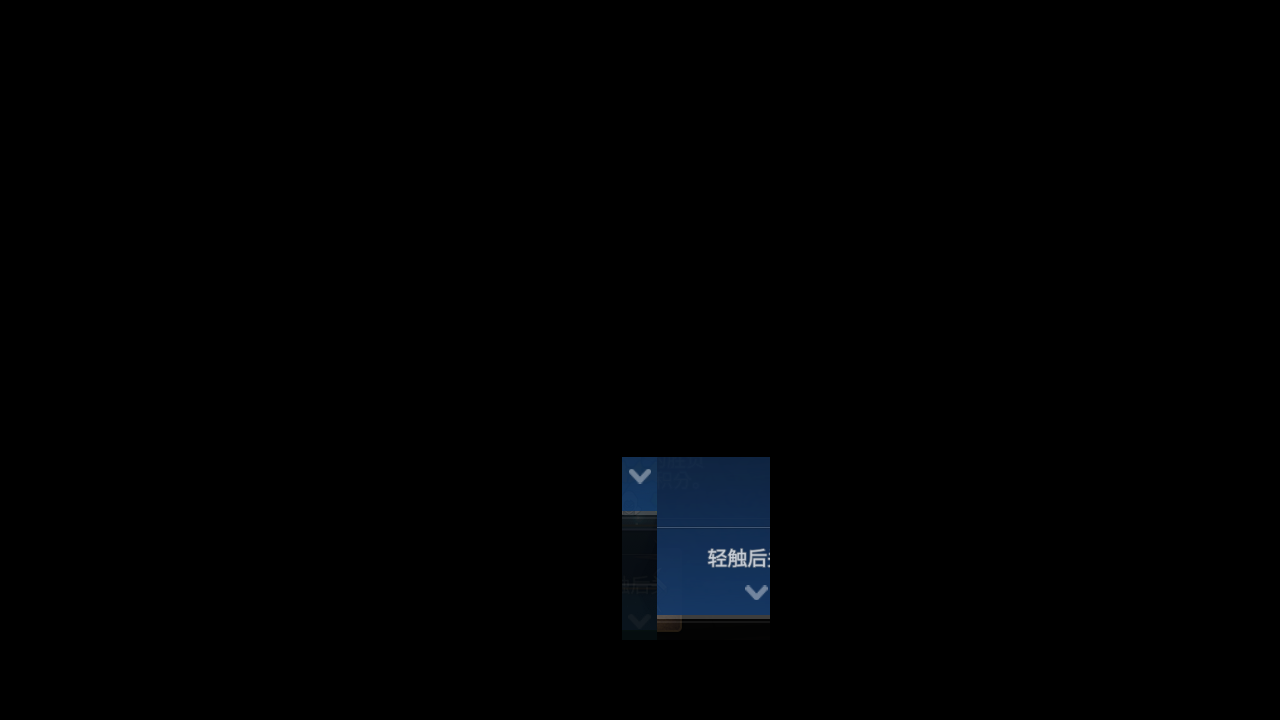
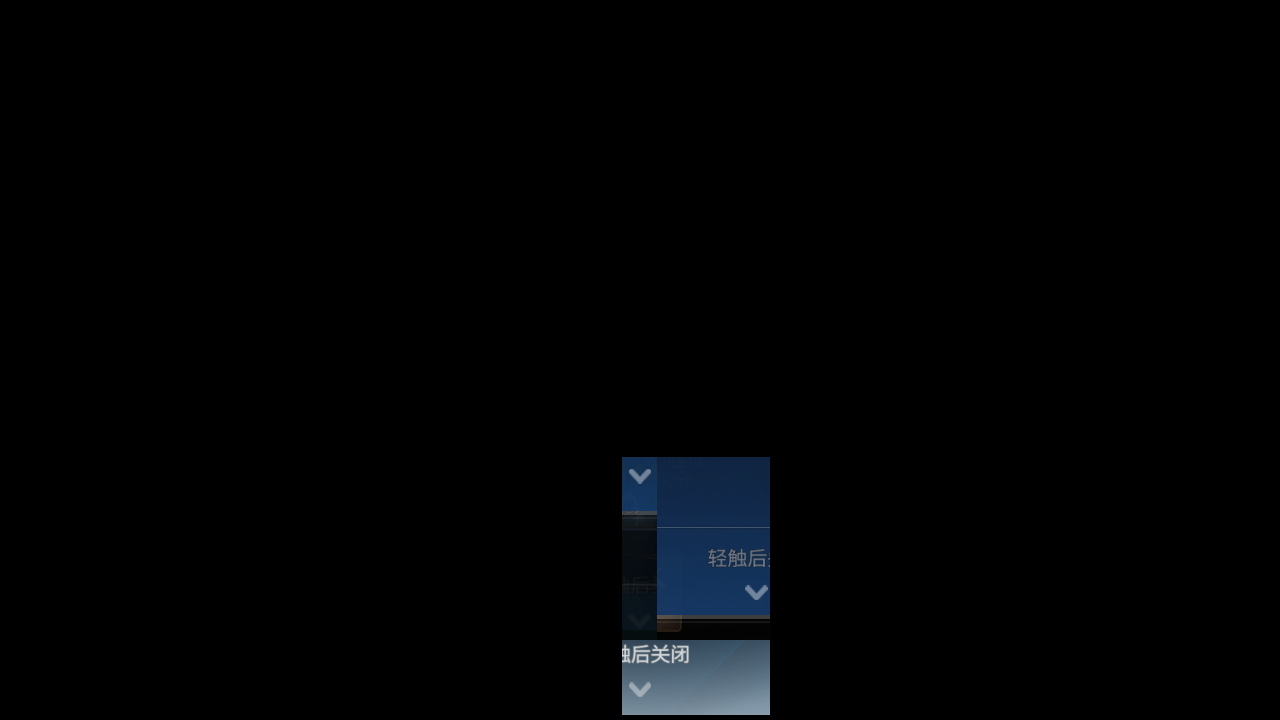
Fix: handled the "World Rank #1" popup in knights expedition

Changed region(s): [[0.4688, 0.8861, 0.625, 1.0], [0.5312, 0.7639, 0.625, 0.7944]]

diff --git a/tasks/base/assets/assets_base_popup.py b/tasks/base/assets/assets_base_popup.py
@@ -163,7 +163,7 @@ TOUCH_TO_CLOSE = ButtonWrapper(
     share=Button(
         file='./assets/share/base/popup/TOUCH_TO_CLOSE.png',
         area=(628, 614, 651, 629),
-        search=(622, 457, 770, 640),
+        search=(622, 457, 770, 715),
         color=(65, 90, 125),
         button=(628, 614, 651, 629),
     ),
